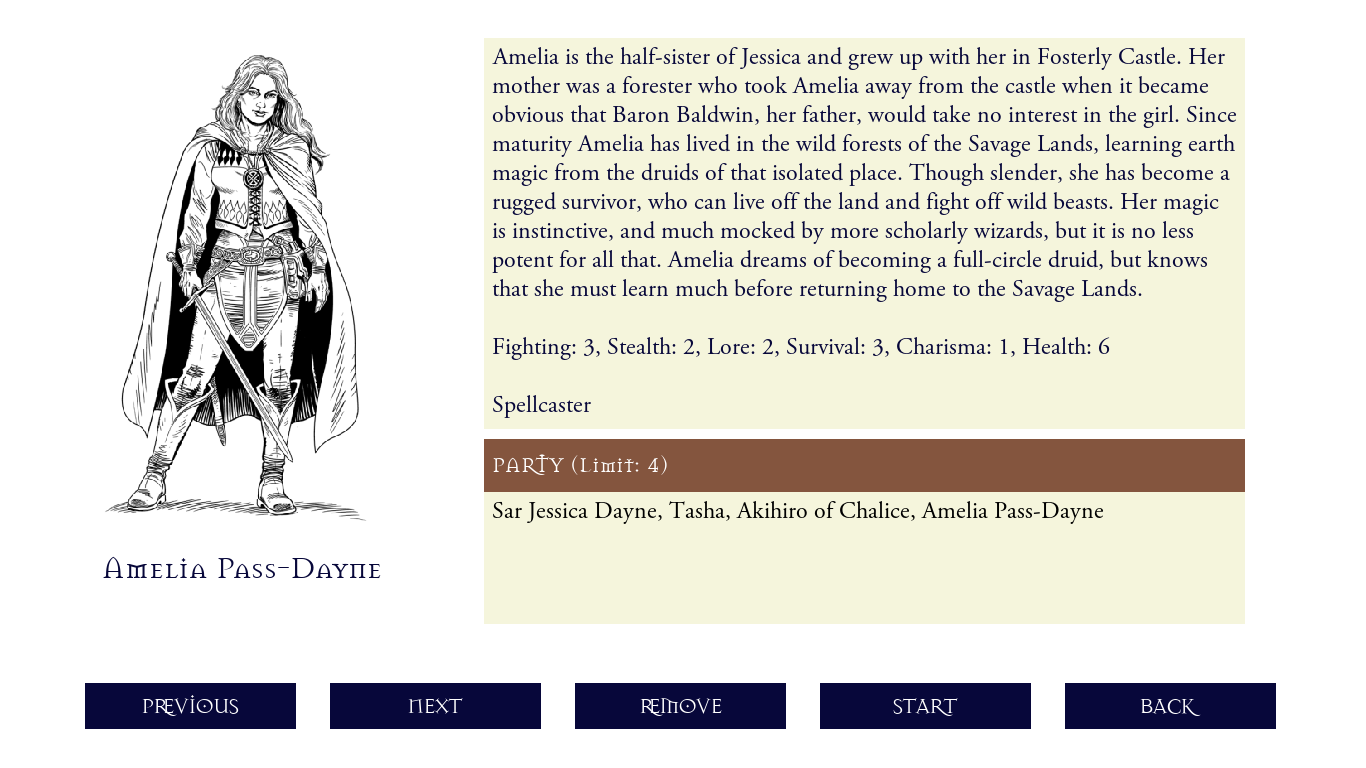
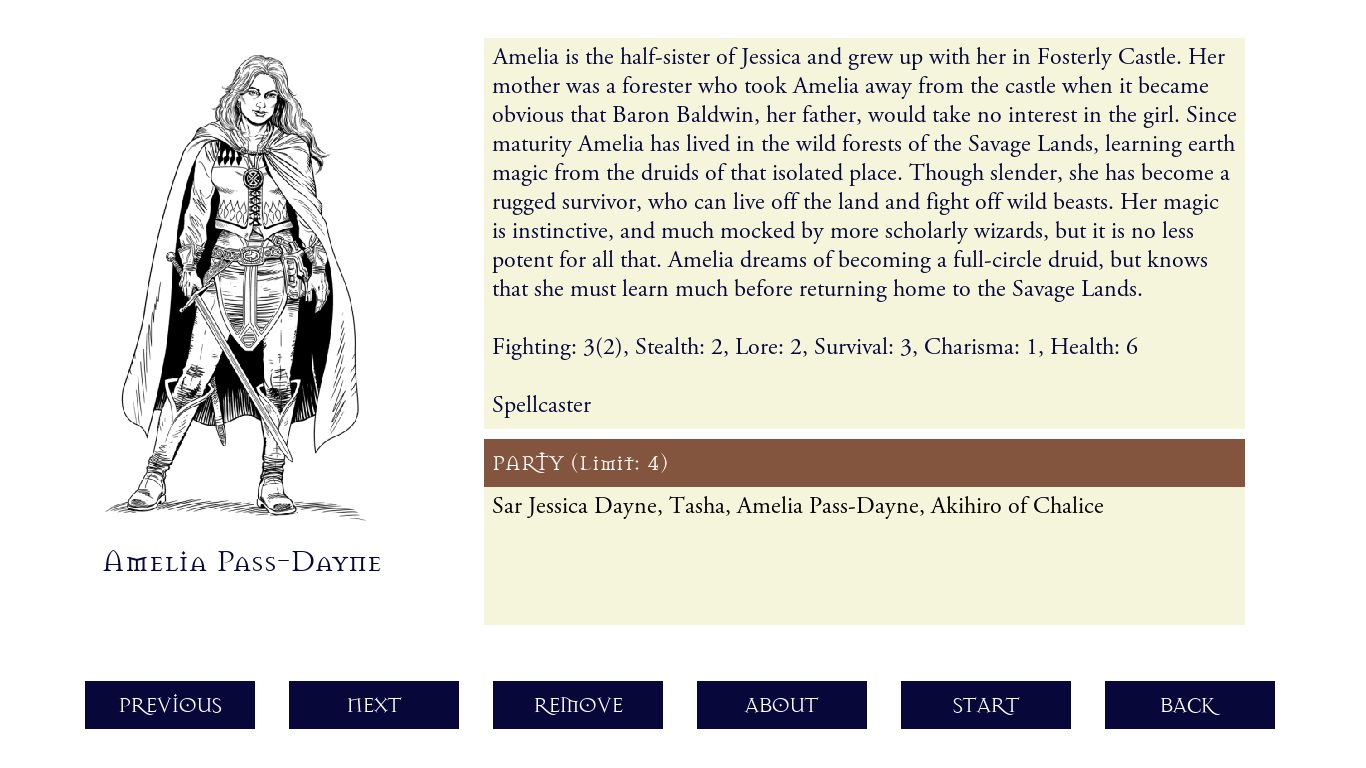
update screenshots. add link to rules section in select party screen.

diff --git a/src/LegendaryKingdoms.cpp b/src/LegendaryKingdoms.cpp
@@ -3133,27 +3133,29 @@ bool selectParty(SDL_Window *window, SDL_Renderer *renderer, Book::Type bookID, 
     {
         SDL_SetWindowTitle(window, "Legendary Kingdoms: Select adventurers for your party");
 
-        const char *choices_add[5] = {"PREVIOUS", "NEXT", "ADD TO PARTY", "START", "BACK"};
-        const char *choices_del[5] = {"PREVIOUS", "NEXT", "REMOVE", "START", "BACK"};
+        const char *choices_add[6] = {"PREVIOUS", "NEXT", "ADD TO PARTY", "ABOUT", "START", "BACK"};
+        const char *choices_del[6] = {"PREVIOUS", "NEXT", "REMOVE", "ABOUT", "START", "BACK"};
 
         auto current = -1;
 
         auto selected = false;
 
-        auto controls_add = createHTextButtons(choices_add, 5, text_buttonh, startx, text_buttony);
-        auto controls_del = createHTextButtons(choices_del, 5, text_buttonh, startx, text_buttony);
+        auto controls_add = createHTextButtons(choices_add, 6, text_buttonh, startx, text_buttony);
+        auto controls_del = createHTextButtons(choices_del, 6, text_buttonh, startx, text_buttony);
 
         controls_add[0].Type = Control::Type::PREVIOUS;
         controls_add[1].Type = Control::Type::NEXT;
         controls_add[2].Type = Control::Type::PLUS;
-        controls_add[3].Type = Control::Type::NEW;
-        controls_add[4].Type = Control::Type::BACK;
+        controls_add[3].Type = Control::Type::ABOUT;
+        controls_add[4].Type = Control::Type::NEW;
+        controls_add[5].Type = Control::Type::BACK;
 
         controls_del[0].Type = Control::Type::PREVIOUS;
         controls_del[1].Type = Control::Type::NEXT;
         controls_del[2].Type = Control::Type::MINUS;
-        controls_del[3].Type = Control::Type::NEW;
-        controls_del[4].Type = Control::Type::BACK;
+        controls_del[3].Type = Control::Type::ABOUT;
+        controls_del[4].Type = Control::Type::NEW;
+        controls_del[5].Type = Control::Type::BACK;
 
         std::vector<TextButton> *controls;
 

diff --git a/README.md b/README.md
@@ -28,7 +28,9 @@ An Implementation of Legendary Kingdoms Gamebooks in C++ and SDL. Only book 1 (T
 
 **View Party**
 
-![View Party](/screenshots/view-party.png)
+![Party Details](/screenshots/view-party-1.png)
+
+![Character Details](/screenshots/view-party-2.png)
 
 **Combat Screens**
 
